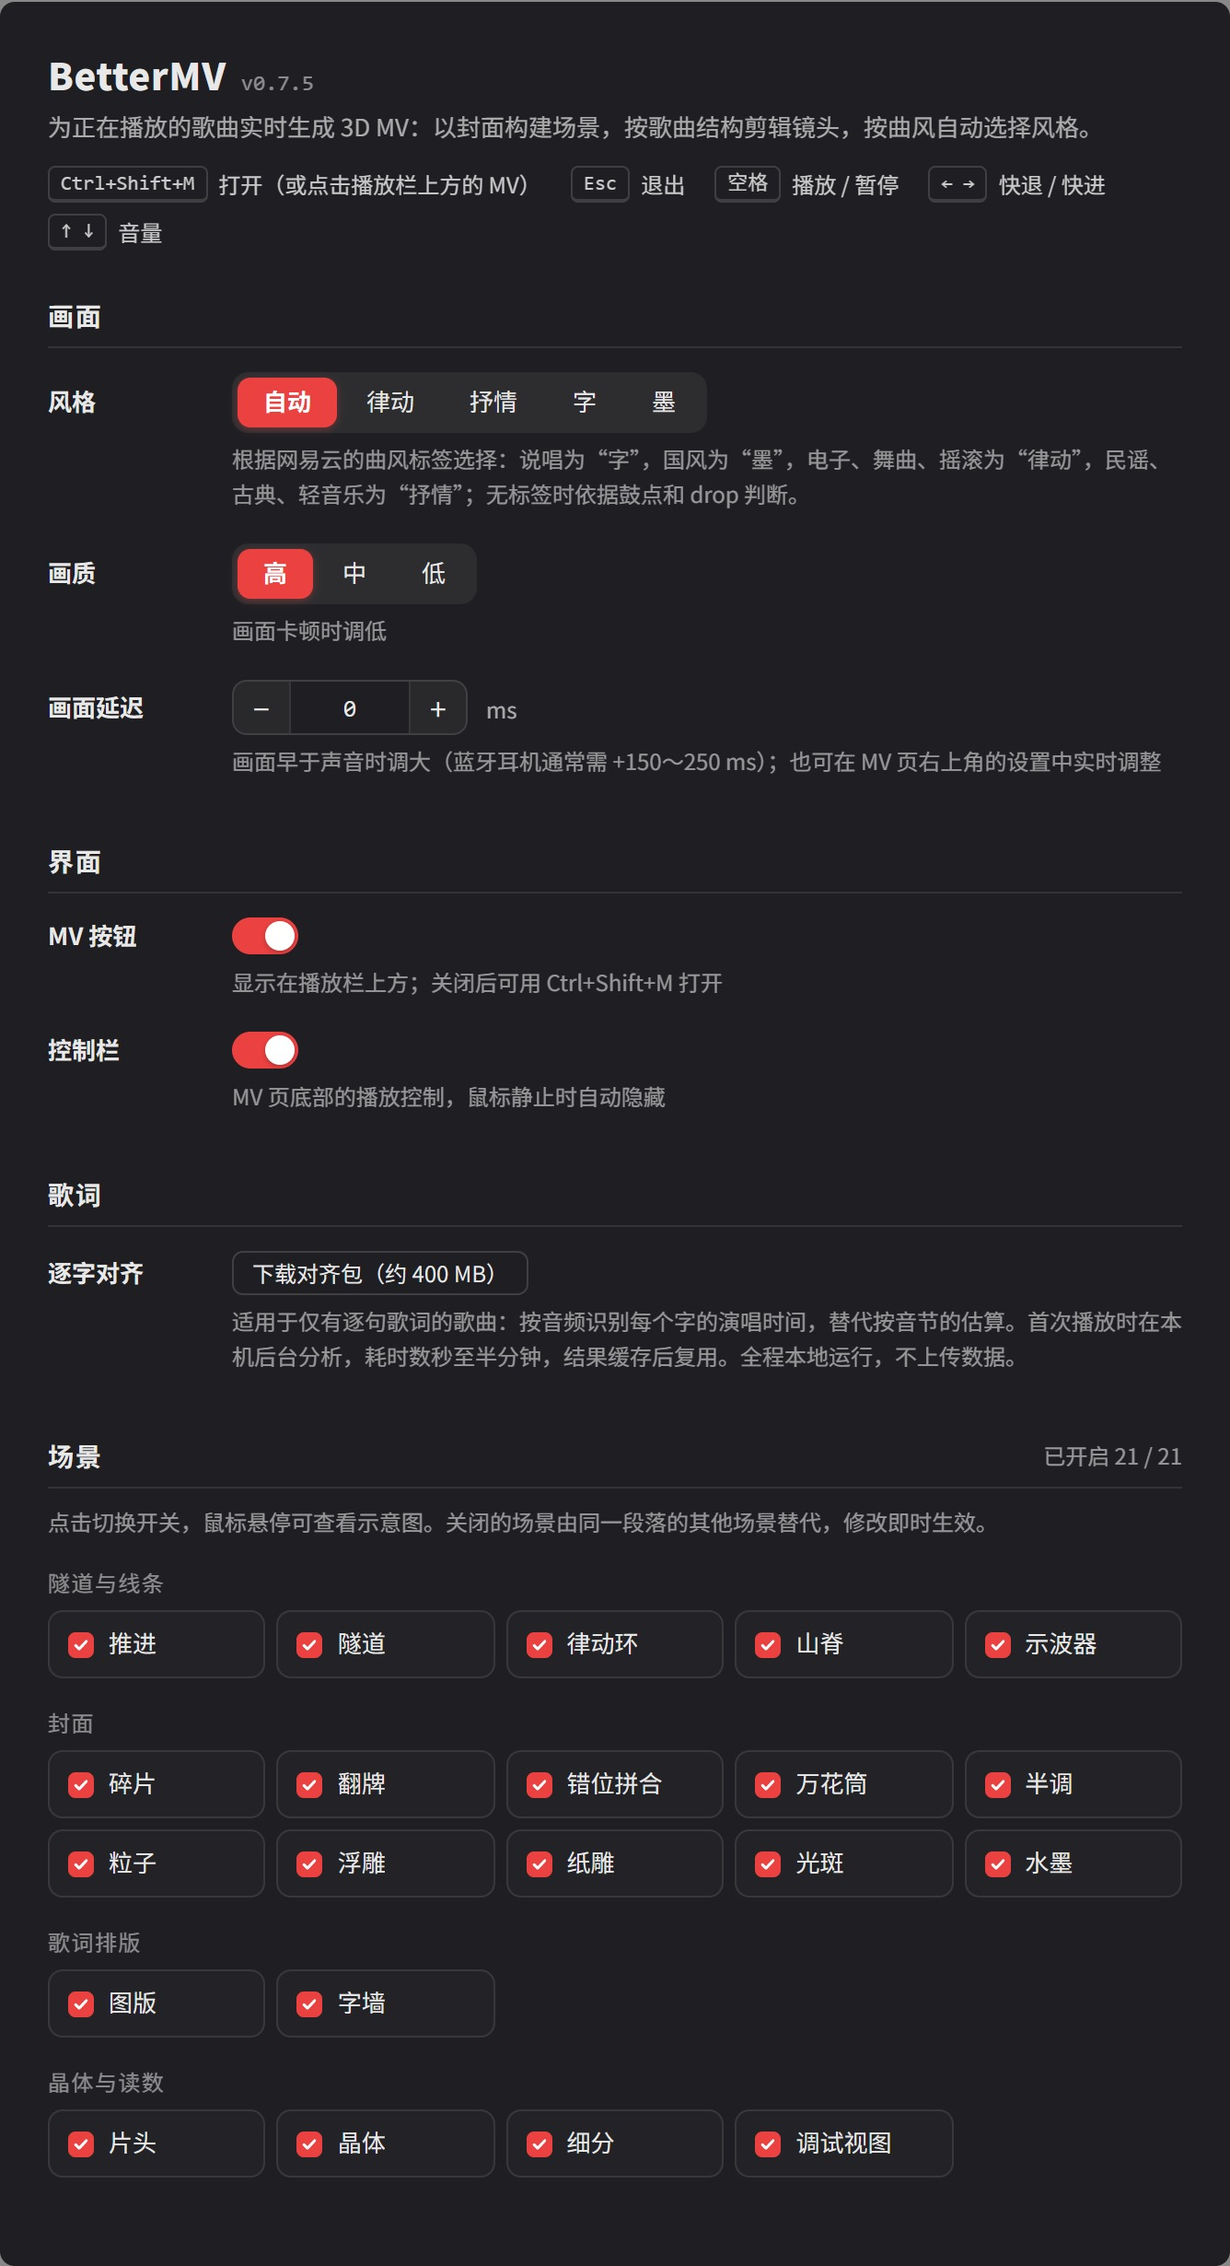
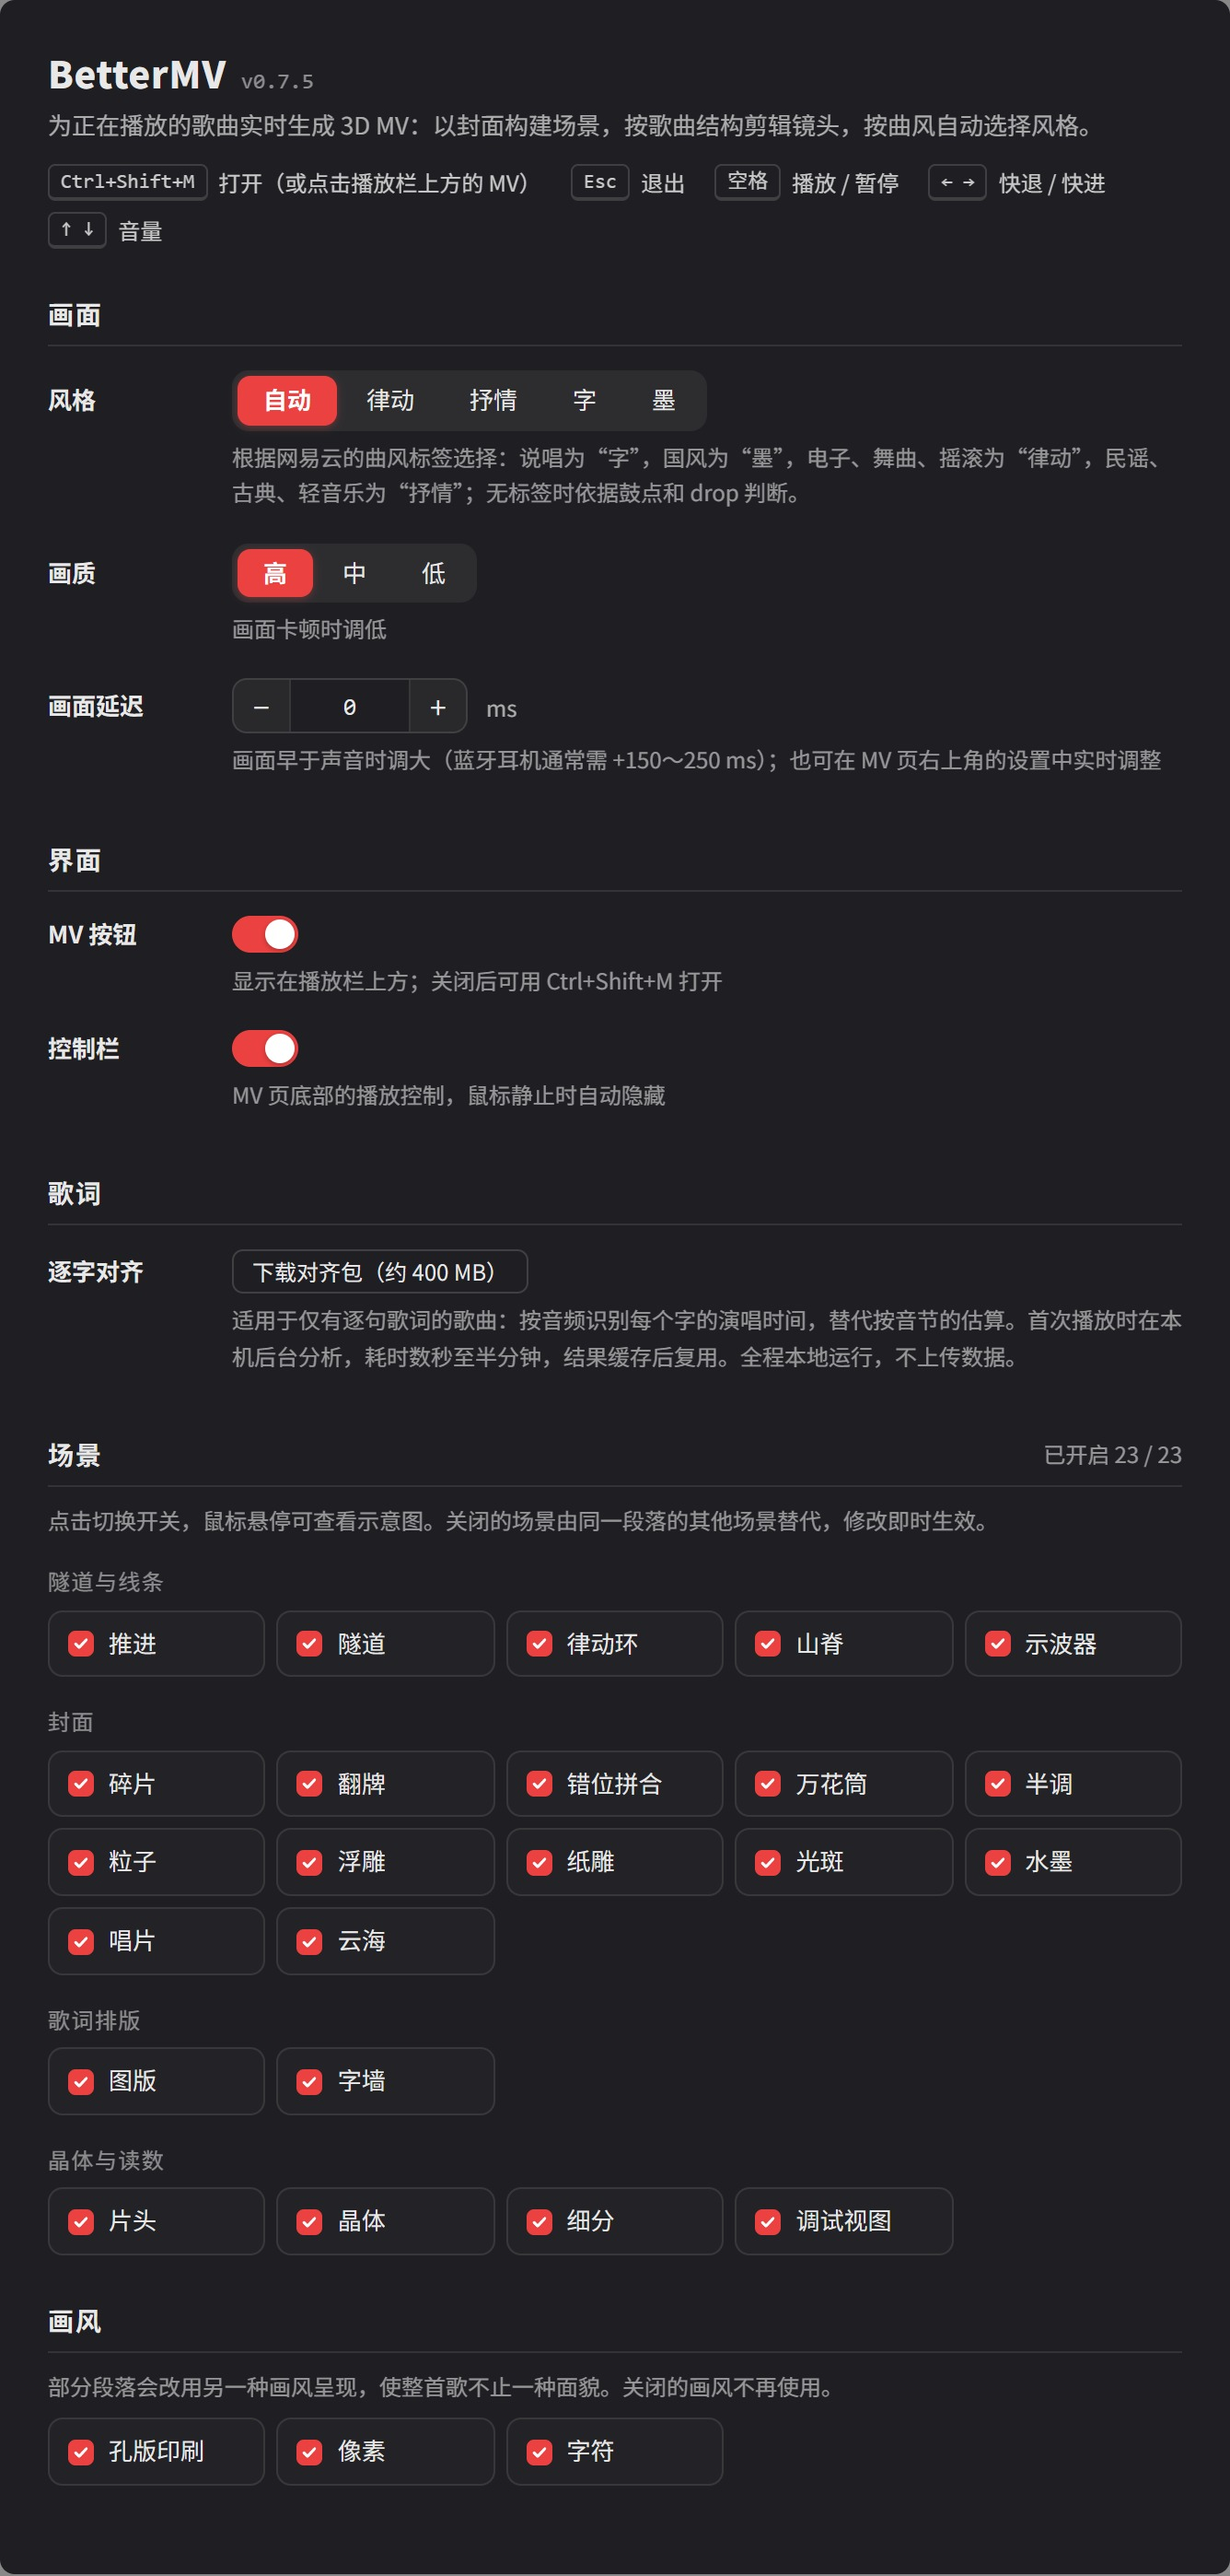
docs: 记录 v0.8 画风与唱片、云海，重渲场景总览和设置页截图

diff --git a/film/scenes.html b/film/scenes.html
@@ -4,15 +4,15 @@
 <meta charset="utf-8">
 <title>BetterMV 场景一览</title>
 <style>
-/* docs/images/scenes.jpg: the 21 scene sketches of the settings page (public/previews/, the original demo cover and
-   made-up words), 7 × 3 with their names. 1760 × 600, shot at 1x and shown 880 wide in the README (so 2x there). */
+/* docs/images/scenes.jpg: the 23 scene sketches of the settings page (public/previews/, the original demo cover and
+   made-up words), 8 × 3 with their names. 1760 × 600, shot at 1x and shown 880 wide in the README (so 2x there). */
 @font-face { font-family: Archivo; src: url(/fonts/Archivo-w1000-700.ttf); font-weight: 700; }
 * { box-sizing: border-box; margin: 0; padding: 0; }
 body { width: 1760px; height: 600px; overflow: hidden; background: #07070a; color: #fff; font-family: "Noto Sans SC", "Microsoft YaHei UI", sans-serif; -webkit-font-smoothing: antialiased; }
-.grid { display: grid; grid-template-columns: repeat(7, 228px); gap: 18px 16px; padding: 30px 32px; }
+.grid { display: grid; grid-template-columns: repeat(8, 198px); gap: 18px 16px; padding: 30px 32px; }
 figure { position: relative; }
-figure img { display: block; width: 228px; height: 128.25px; object-fit: cover; border-radius: 10px; box-shadow: inset 0 0 0 1px rgba(255,255,255,.1), 0 10px 26px rgba(0,0,0,.5); }
-figcaption { margin-top: 10px; display: flex; align-items: baseline; gap: 8px; font-size: 18px; font-weight: 700; }
+figure img { display: block; width: 198px; height: 111.375px; object-fit: cover; border-radius: 10px; box-shadow: inset 0 0 0 1px rgba(255,255,255,.1), 0 10px 26px rgba(0,0,0,.5); }
+figcaption { margin-top: 10px; display: flex; align-items: baseline; gap: 8px; font-size: 17px; font-weight: 700; }
 figcaption small { font: 700 12px Archivo; letter-spacing: .12em; color: rgba(255,255,255,.45); text-transform: uppercase; }
 </style>
 </head>

diff --git a/CHANGELOG.md b/CHANGELOG.md
@@ -1,5 +1,11 @@
 # BetterMV 更新记录
 
+## 开发中
+
+- 新增画风：部分段落改用另一种画风呈现——孔版印刷（专色油墨网点，印在米色纸上）、像素（大像素块与点阵屏暗缝）、字符（曲面显像管上的字符画，由这首歌歌词中的字组成）。正在演唱的歌词保持清晰。可在设置的“画风”一栏单独关闭。
+- 新增场景“唱片”：歌曲压成一张唱片，封面为标签，纹路随响度明暗，段落之间留出音轨间隙，唱针停在正在播放的位置；歌词沿标签环绕。
+- 新增场景“云海”：日落时分掠过体积云海，封面化作地平线上的落日为云层染色；歌词悬于前方天空，镜头从中穿过。
+
 ## 0.7.5
 
 - MV 页控制栏重新排版：歌名和歌手分两行显示，过长时截断，悬停显示全名；新增喜欢、播放模式和播放列表；当前风格移至右侧标签，悬停显示选择理由。右上角新增最小化、最大化按钮。网易云自身的快捷键（如 Ctrl+← → 切歌）在 MV 页同样有效。
